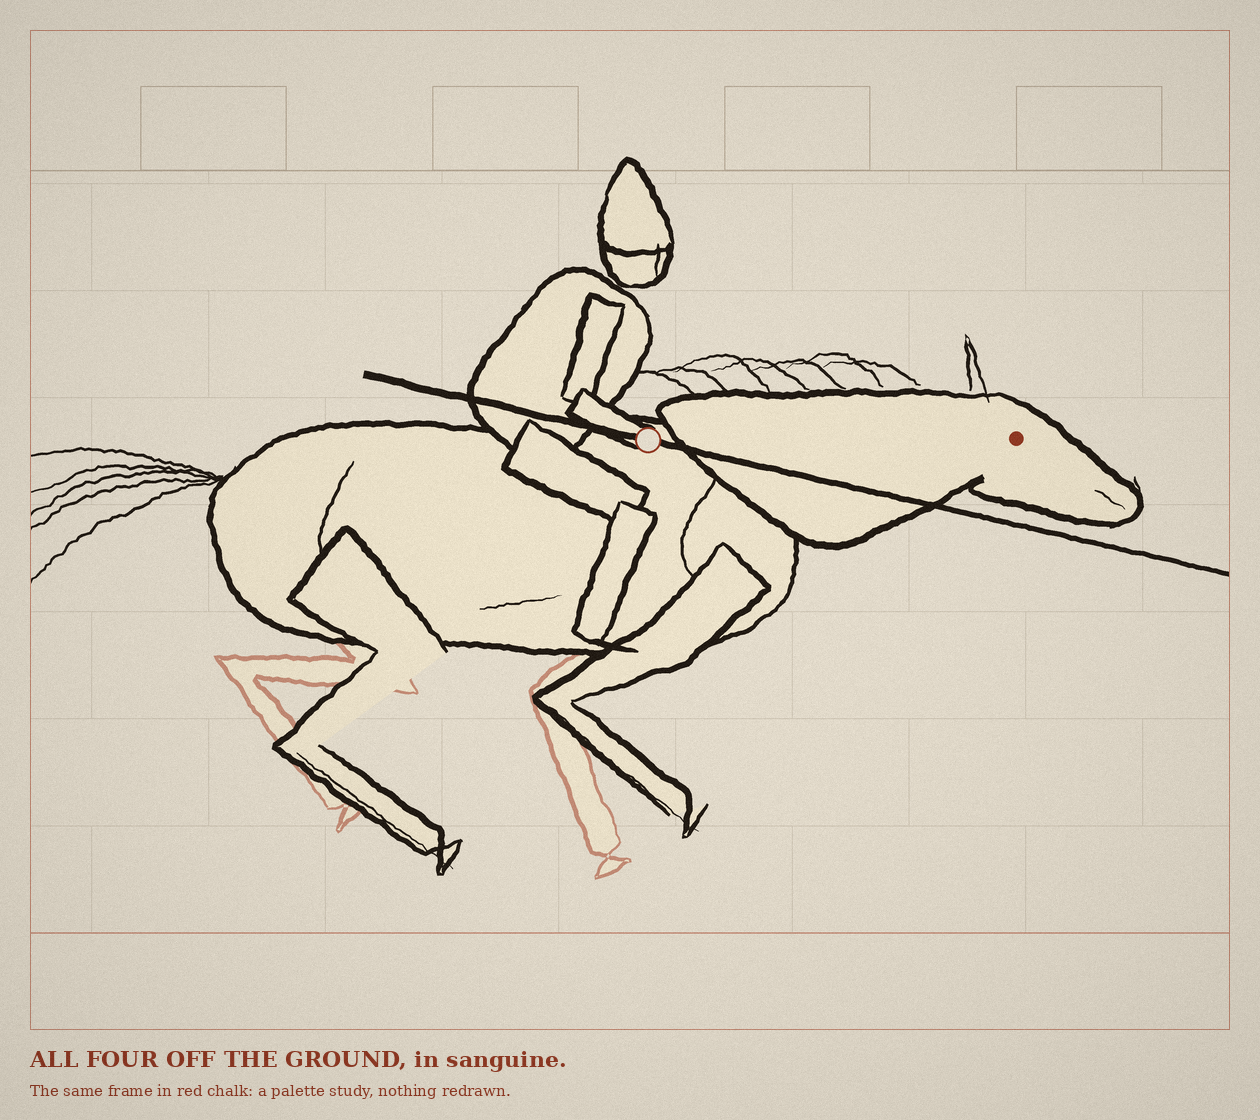
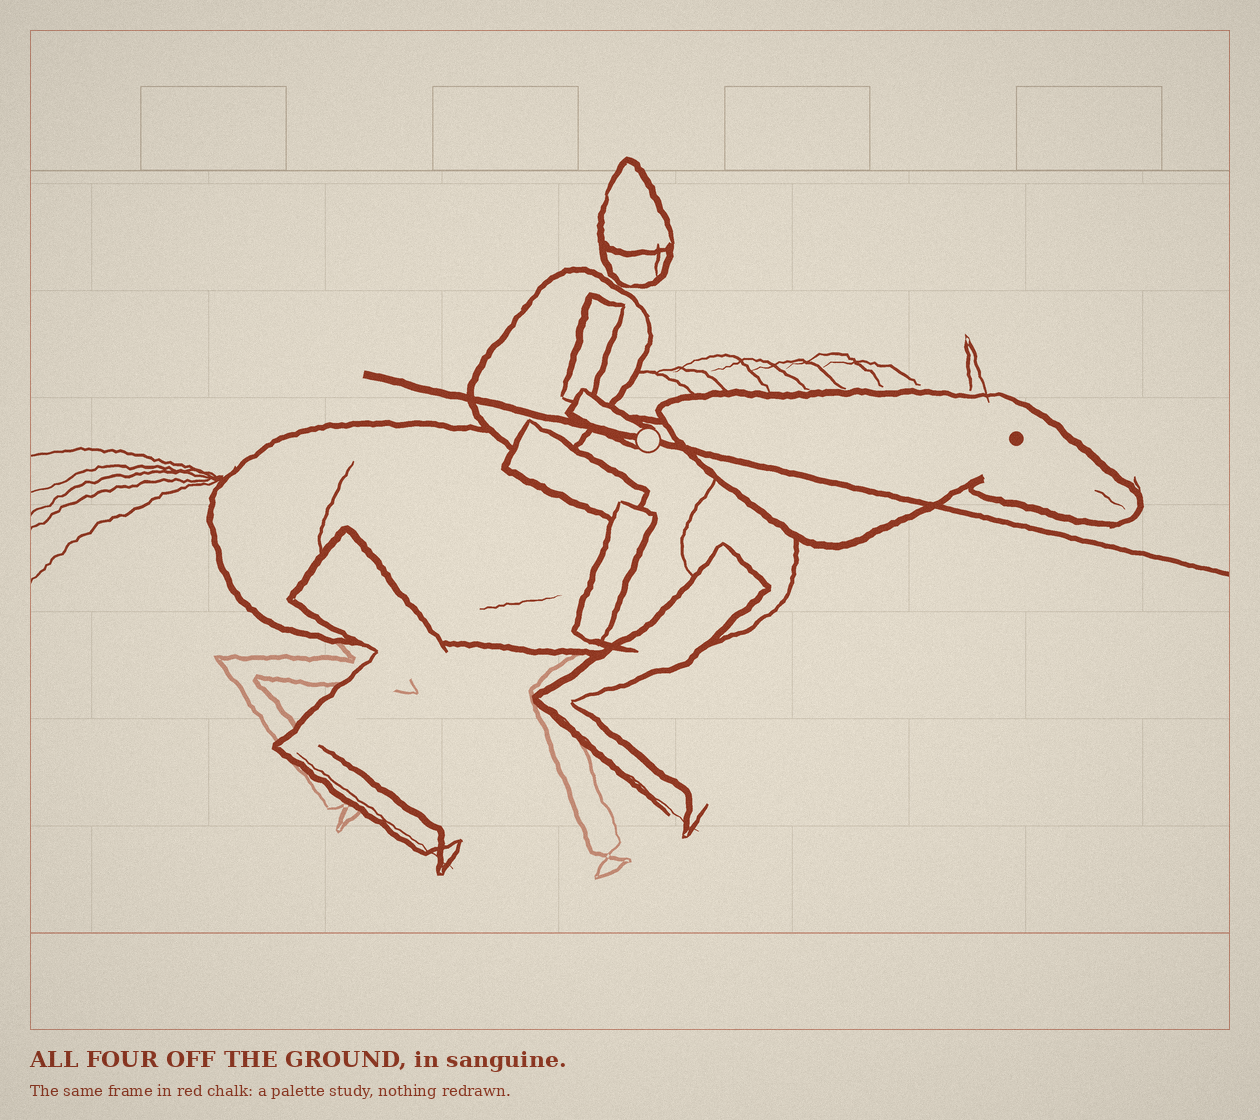
Pen defaults resolve at call time (the sanguine study exposed it)

diff --git a/portfolio/2026-10-26-the-knight-at-uruk/knight.py b/portfolio/2026-10-26-the-knight-at-uruk/knight.py
@@ -282,11 +282,11 @@ def rider_pose(body, t):
 # ---------------------------------------------------------------- drawing
 
 class Pen:
-    def __init__(self, draw: ImageDraw.ImageDraw, to_px, rng: random.Random, ink=INK):
+    def __init__(self, draw: ImageDraw.ImageDraw, to_px, rng: random.Random, ink=None):
         self.d = draw
         self.to_px = to_px
         self.rng = rng
-        self.ink = ink
+        self.ink = ink or INK  # resolved at call time, so a palette swap on the module takes
 
     def stroke(self, pts, w0, w1, wobble=0.004, ink=None, taper=True):
         """A tapered ink stroke along a polyline (scene coords, metres)."""
@@ -334,9 +334,11 @@ class Pen:
         poly = [self.to_px(q) for q in left + list(reversed(right))]
         self.d.polygon(poly, fill=ink)
 
-    def outline(self, poly, w, ink=None, pieces=3, fill=PAPER, wobble=0.004):
+    def outline(self, poly, w, ink=None, pieces=3, fill="paper", wobble=0.004):
         """Paint the paper back under a part, then draw its contour as a few
         overlapping pen strokes."""
+        if fill == "paper":
+            fill = PAPER
         if fill is not None:
             self.d.polygon([self.to_px(p) for p in poly], fill=fill)
         n = len(poly)

diff --git a/tools/inkfigure.py b/tools/inkfigure.py
@@ -124,11 +124,11 @@ def limb_polygon(chain, widths, hoof=True):
 
 
 class Pen:
-    def __init__(self, draw: ImageDraw.ImageDraw, to_px, rng: random.Random, ink=INK):
+    def __init__(self, draw: ImageDraw.ImageDraw, to_px, rng: random.Random, ink=None):
         self.d = draw
         self.to_px = to_px
         self.rng = rng
-        self.ink = ink
+        self.ink = ink or INK  # resolved at call time, so a palette swap on the module takes
 
     def stroke(self, pts, w0, w1, wobble=0.004, ink=None, taper=True):
         """A tapered ink stroke along a polyline (scene coords, metres)."""
@@ -176,9 +176,11 @@ class Pen:
         poly = [self.to_px(q) for q in left + list(reversed(right))]
         self.d.polygon(poly, fill=ink)
 
-    def outline(self, poly, w, ink=None, pieces=3, fill=PAPER, wobble=0.004):
+    def outline(self, poly, w, ink=None, pieces=3, fill="paper", wobble=0.004):
         """Paint the paper back under a part, then draw its contour as a few
         overlapping pen strokes."""
+        if fill == "paper":
+            fill = PAPER
         if fill is not None:
             self.d.polygon([self.to_px(p) for p in poly], fill=fill)
         n = len(poly)

diff --git a/portfolio/2026-10-26-the-knight-at-uruk/README.md b/portfolio/2026-10-26-the-knight-at-uruk/README.md
@@ -31,7 +31,11 @@ Made in the art break April allowed on condition that it be about the campaign.
   wall, one walking stride in ten frames, one per turn (`warrior.py`): the frontier's
   original ask, a human figure drawn from measured limb lengths with the knee by IK, the
   far arm carrying a shield. The club hand is stiff on the back-swing.
-- `all-four-off-the-ground-sanguine.png`: the same frame in red chalk, a palette study.
+- `all-four-off-the-ground-sanguine.png`: the same frame in red chalk, a palette study. Its
+  first render failed in a telling way: the pen's default ink and paper were bound at class
+  definition, so the strokes stayed black and the paper-back fill showed as a cream
+  silhouette against the grey sheet. Fixed in the pen (resolved at call time) and in
+  `tools/inkfigure.py`.
 - `contact-sheet.jpg`: the session on one sheet.
 - `knight.py`: the plate and film. `python3 knight.py all` renders both. `archer.py` hooks
   into it (`EXTRA`, `WALL_TOP`, `MERLONS`) for the garrison piece.
